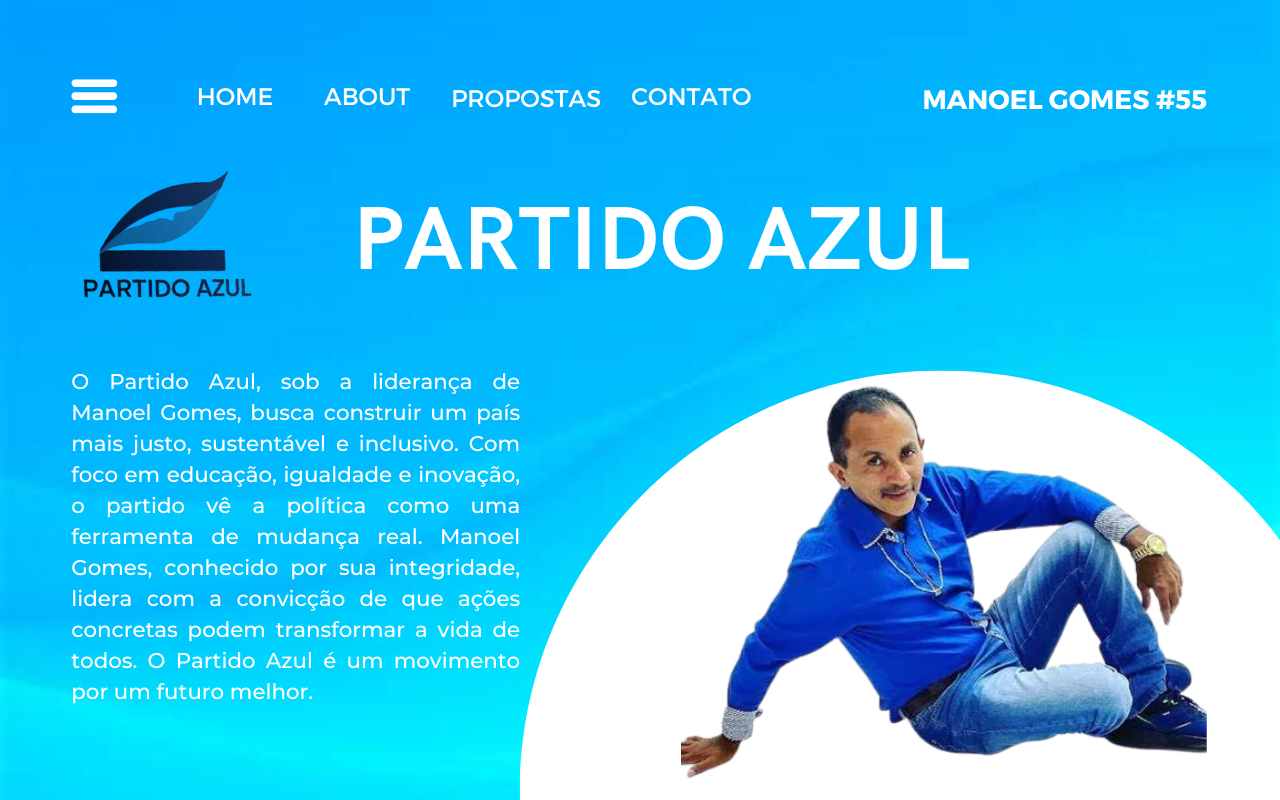
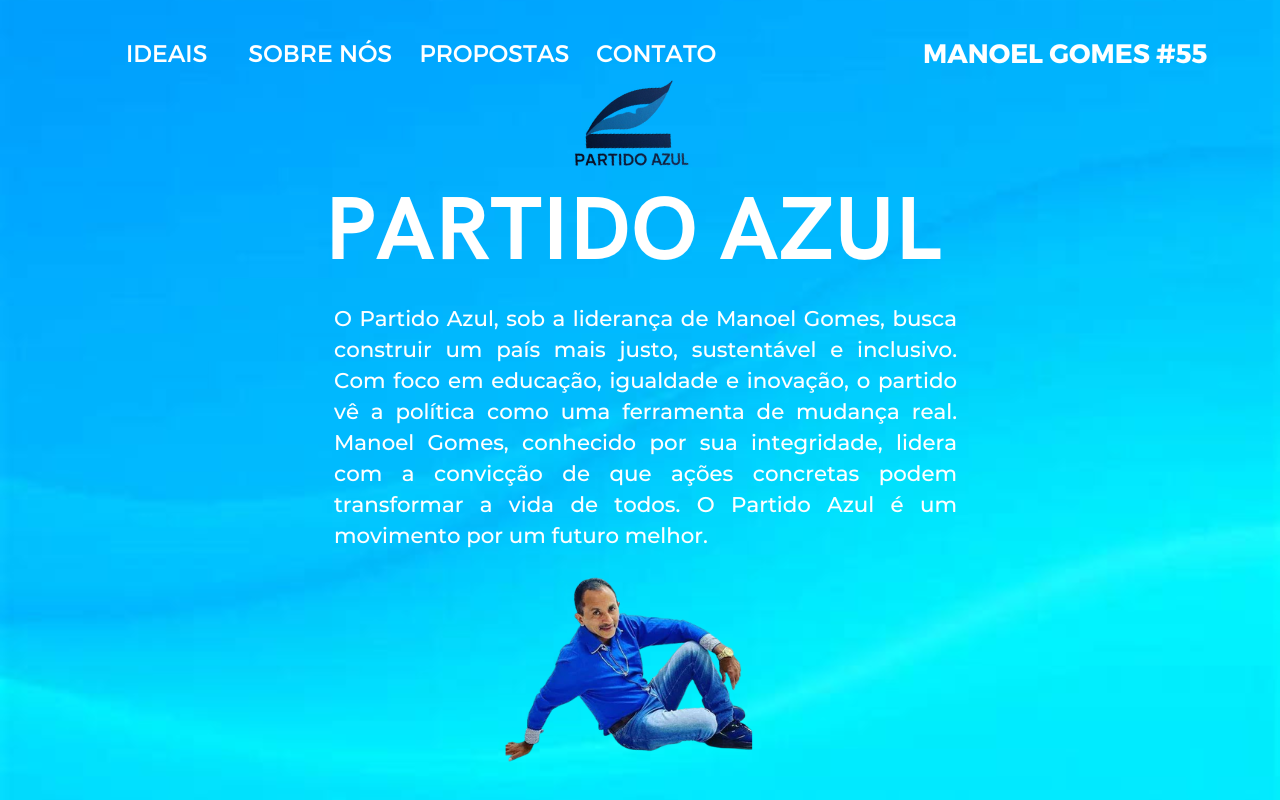
Add files via upload

diff --git a/página pa/style.css b/página pa/style.css
@@ -7,11 +7,11 @@
 
 body {
     color: white;
-    background-image: url('img/OIP.jpg'); /* Defina a imagem de fundo */
-    background-size: cover; /* Ajusta a imagem para cobrir toda a tela */
-    background-position: center; /* Centraliza a imagem */
-    background-attachment: fixed; /* Faz com que a imagem de fundo fique fixa ao rolar a página */
-    height: 100vh; /* Define a altura do body como a altura total da viewport */
+    background-image: url('img/OIP.jpg'); /* Imagem de fundo */
+    background-size: cover; /* Cobre toda a tela */
+    background-position: center;
+    background-attachment: fixed;
+    height: 100vh;
     display: flex;
     flex-direction: column;
 }
@@ -22,7 +22,15 @@ header {
     justify-content: space-between;
     align-items: center;
     position: relative;
-    z-index: 2; /* Certifique-se de que o header esteja acima da imagem de fundo */
+    z-index: 2;
+    width: 100%;
+    
+}
+
+nav {
+    display: flex;
+    justify-content: space-between;
+    align-items: center;
     width: 100%;
 }
 
@@ -30,89 +38,72 @@ header {
     list-style: none;
     display: flex;
     gap: 20px;
+    margin-left: auto;
 }
 
 .nav-links li a {
     text-decoration: none;
     color: white;
     font-weight: bold;
-}
-
-.menu-icon {
-    font-size: 24px;
-    display: none; /* Só exibir em telas menores, usando media queries */
+    font-size: 16px;
 }
 
 .leader-info {
     font-weight: bold;
     font-size: 18px;
+    margin-left: auto;
+    color: white;
 }
 
 .hero {
     display: flex;
     flex-direction: column;
-    align-items: center; /* Alinha o conteúdo horizontalmente ao centro */
-    justify-content: center; /* Alinha o conteúdo verticalmente ao centro */
-    text-align: center;
-    padding: 50px 20px;
+    align-items: center; /* Centraliza o conteúdo */
+    padding: 50px;
     position: relative;
     z-index: 2;
     border-radius: 10px;
     margin: 20px;
-    height: 100vh; /* Faz com que a seção ocupe toda a altura da tela */
+    max-width: 1200px;
+    margin-left: auto;
+    margin-right: auto;
 }
-
-h1 {
-    font-size: 48px;
-    margin-bottom: 20px;
-    text-align: center; /* Centraliza o texto horizontalmente */
-}
-
 
 .logo-container {
     margin-bottom: 20px;
+    text-align: center; /* Centraliza o logo */
 }
 
 .logo {
     width: 150px;
 }
 
+.content {
+    text-align: center; /* Centraliza o texto */
+}
+
 h1 {
-    font-size: 48px;
+    font-size: 60px;
+    font-weight: bold;
     margin-bottom: 20px;
+    color: white;
+    border: 3px solid #fff; /* Borda ao redor do título */
+    padding: 10px;
+    display: inline-block; /* Faz com que a borda se ajuste ao texto */
 }
 
 p {
-    max-width: 600px;
+    max-width: 600px; /* Limita a largura do texto */
     font-size: 18px;
-    margin-bottom: 30px;
     line-height: 1.6;
+    color: white;
 }
 
 .leader-image {
-    margin-top: 20px;
+    margin-top: 20px; /* Espaçamento acima da imagem */
 }
 
 .leader-image img {
-    width: 200px;
-    border-radius: 50%;
-}
-
-@media (min-width: 768px) {
-    .hero {
-        flex-direction: row;
-        justify-content: space-between;
-        text-align: left;
-    }
-
-    .content {
-        max-width: 600px;
-    }
-
-}
-
-.círculo {
-    width: 5000px;
-    height: 500px;
-    margin: 100px;
+    width: 300px;
+    border-radius: 10px;
 }

diff --git a/página pa/index.html b/página pa/index.html
@@ -4,17 +4,18 @@
     <meta charset="UTF-8">
     <meta name="viewport" content="width=device-width, initial-scale=1.0">
     <title>Partido Azul</title>
-    <link rel="stylesheet" href="style.css">
+    <link rel="stylesheet" href="style.css
+    
+    ">
 </head>
 <body>
     <header>
         <nav>
-            <div class="menu-icon">&#9776;</div>
             <ul class="nav-links">
                 <li><a href="#">IDEAIS</a></li>
                 <li><a href="#">SOBRE NÓS</a></li>
                 <li><a href="#">PROPOSTAS</a></li>
-                <li><a href="#">Contato</a></li>
+                <li><a href="#">CONTATO</a></li>
             </ul>
             <div class="leader-info">MANOEL GOMES #55</div>
         </nav>
@@ -29,8 +30,7 @@
             <p>O Partido Azul, sob a liderança de Manoel Gomes, busca construir um país mais justo, sustentável e inclusivo. Com foco em educação, igualdade e inovação, o partido vê a política como uma ferramenta de mudança real. Manoel Gomes, conhecido por sua integridade, lidera com a convicção de que ações concretas podem transformar a vida de todos. O Partido Azul é um movimento por um futuro melhor.</p>
         </div>
         <div class="leader-image">
-            <img src="img/OIP-removebg-preview.png" alt="Manoel Gomes">
-            <img src="img/círculob-removebg-preview.png" class="círculo">
+            <img src="img/Design sem nome (1).png" alt="Manoel Gomes">
         </div>
     </section>
 </body>
